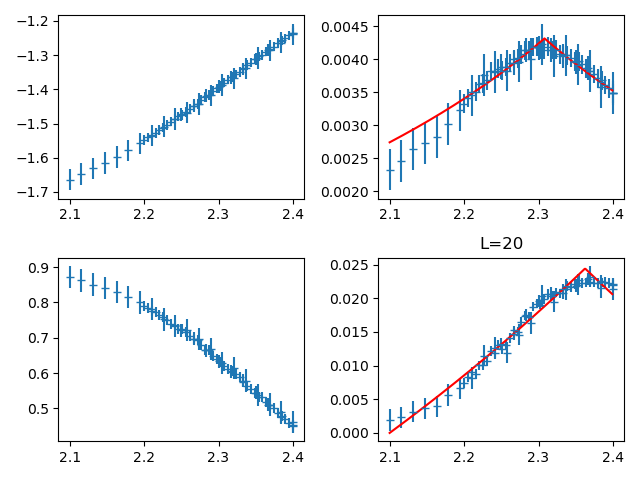
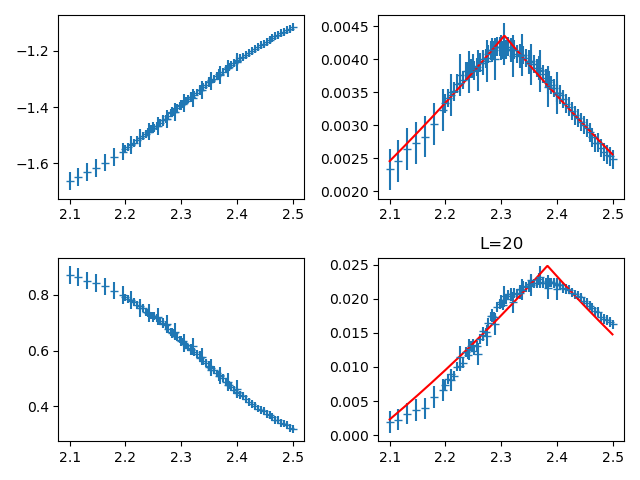
Added more data and fixed the failing ODR fits

diff --git a/problem8.py b/problem8.py
@@ -33,8 +33,16 @@ def f_74(beta, x):
 
 model_Cv = odr.Model(f_log)
 model_Chi = odr.Model(f_74)
-beta0_Cv = [2.3, 0.2, -1e-4, 3, 1e-2]
-beta0_Chi = [2.3, 2e-1, 2e-5, 1e-3, 2e-2]
+beta0_Cv = {20: [2.3, 0.2, -1e-3, 3, 1e-2],
+            40: [2.3, 0.2, -1e-3, 3, 1e-2],
+            60: [2.3, 0.2, -1e-4, 3, 1e-2],
+            80: [2.3, 0.2, -1e-4, 3, 1e-2],
+           100: [2.3, 0.2, -1e-4, 3, 1e-2]}
+beta0_Chi = {20: [2.4, 2e-1, 2.2e-5, 1e-3, 2e-2],
+             40: [2.3, 2e-1, 2e-5, 1e-3, 2e-2],
+             60: [2.3, 2e-1, 2e-5, 1e-3, 2e-2],
+             80: [2.3, 2e-1, 2e-5, 1e-3, 2e-2],
+            100: [2.3, 2e-1, 2e-5, 1e-3, 2e-2]}
 
 Tc_list = []
 
@@ -64,8 +72,8 @@ for L in (20,40,60,80,100):
     weights = 1e-6 * L_data[:, 2].astype(int)
     Data_Cv = odr.Data(T, Cv, weights)
     Data_Chi = odr.Data(T, Chi, weights)
-    myodr_Cv = odr.ODR(Data_Cv, model_Cv, beta0_Cv)
-    myodr_Chi = odr.ODR(Data_Chi, model_Chi, beta0_Cv)
+    myodr_Cv = odr.ODR(Data_Cv, model_Cv, beta0_Cv[L])
+    myodr_Chi = odr.ODR(Data_Chi, model_Chi, beta0_Chi[L])
     output_Cv = myodr_Cv.run()
     output_Chi = myodr_Chi.run()
     
@@ -81,10 +89,10 @@ for L in (20,40,60,80,100):
         ax.errorbar(T, L_data[:, i+3].astype(float), error_scale[L][i]*np.power(weights, -0.5), fmt = "_")
     
     ax2.plot(T_, f_log(output_Cv.beta, T_), "r-")
-    # ax4.plot(T_, f_74(beta0_Cv, T_), "b-")
+    # ax2.plot(T_, f_log(beta0_Cv[L], T_), "b-")
     
     ax4.plot(T_, f_74(output_Chi.beta, T_), "r-")
-    # ax4.plot(T_, f_74(beta0_Chi, T_), "b-")
+    # ax4.plot(T_, f_74(beta0_Chi[L], T_), "b-")
         
     
     
@@ -107,8 +115,9 @@ def f_lin(beta, x):
     return beta[0]*x + beta[1]
 
 
-Tc_list = np.array(list(filter(lambda x: 0 < x[1] < 1 and x[0] < 2.34, Tc_list)))
-print(Tc_list)
+# Tc_list = np.array(list(filter(lambda x: 0 < x[1] < 1 and x[0] < 2.34, Tc_list)))
+Tc_list = np.array(Tc_list)
+# print(Tc_list)
 
 model_lin = odr.Model(f_lin)
 y = Tc_list[:,0]
@@ -117,8 +126,9 @@ x = np.power(Tc_list[:,2], -1)
 Data = odr.Data(x, y, weights_lin)
 odr_lin = odr.ODR(Data, model_lin, (1, 2.2))
 output = odr_lin.run()
+output.pprint()
 
-L_range = np.arange(0, 0.05, 0.01)
+L_range = np.arange(0, 0.051, 0.01)
 
 plt.figure()
 plt.errorbar(x, y, Tc_list[:,1], fmt = "_")
@@ -129,4 +139,4 @@ plt.tight_layout()
 plt.savefig("Data/Problem8/Tc_plot.png")
 
 print("\n")
-print(f"Tc = {output.beta[0]} +/- {output.sd_beta[0]}")
+print(f"Tc = {output.beta[1]} +/- {output.sd_beta[1]}")
